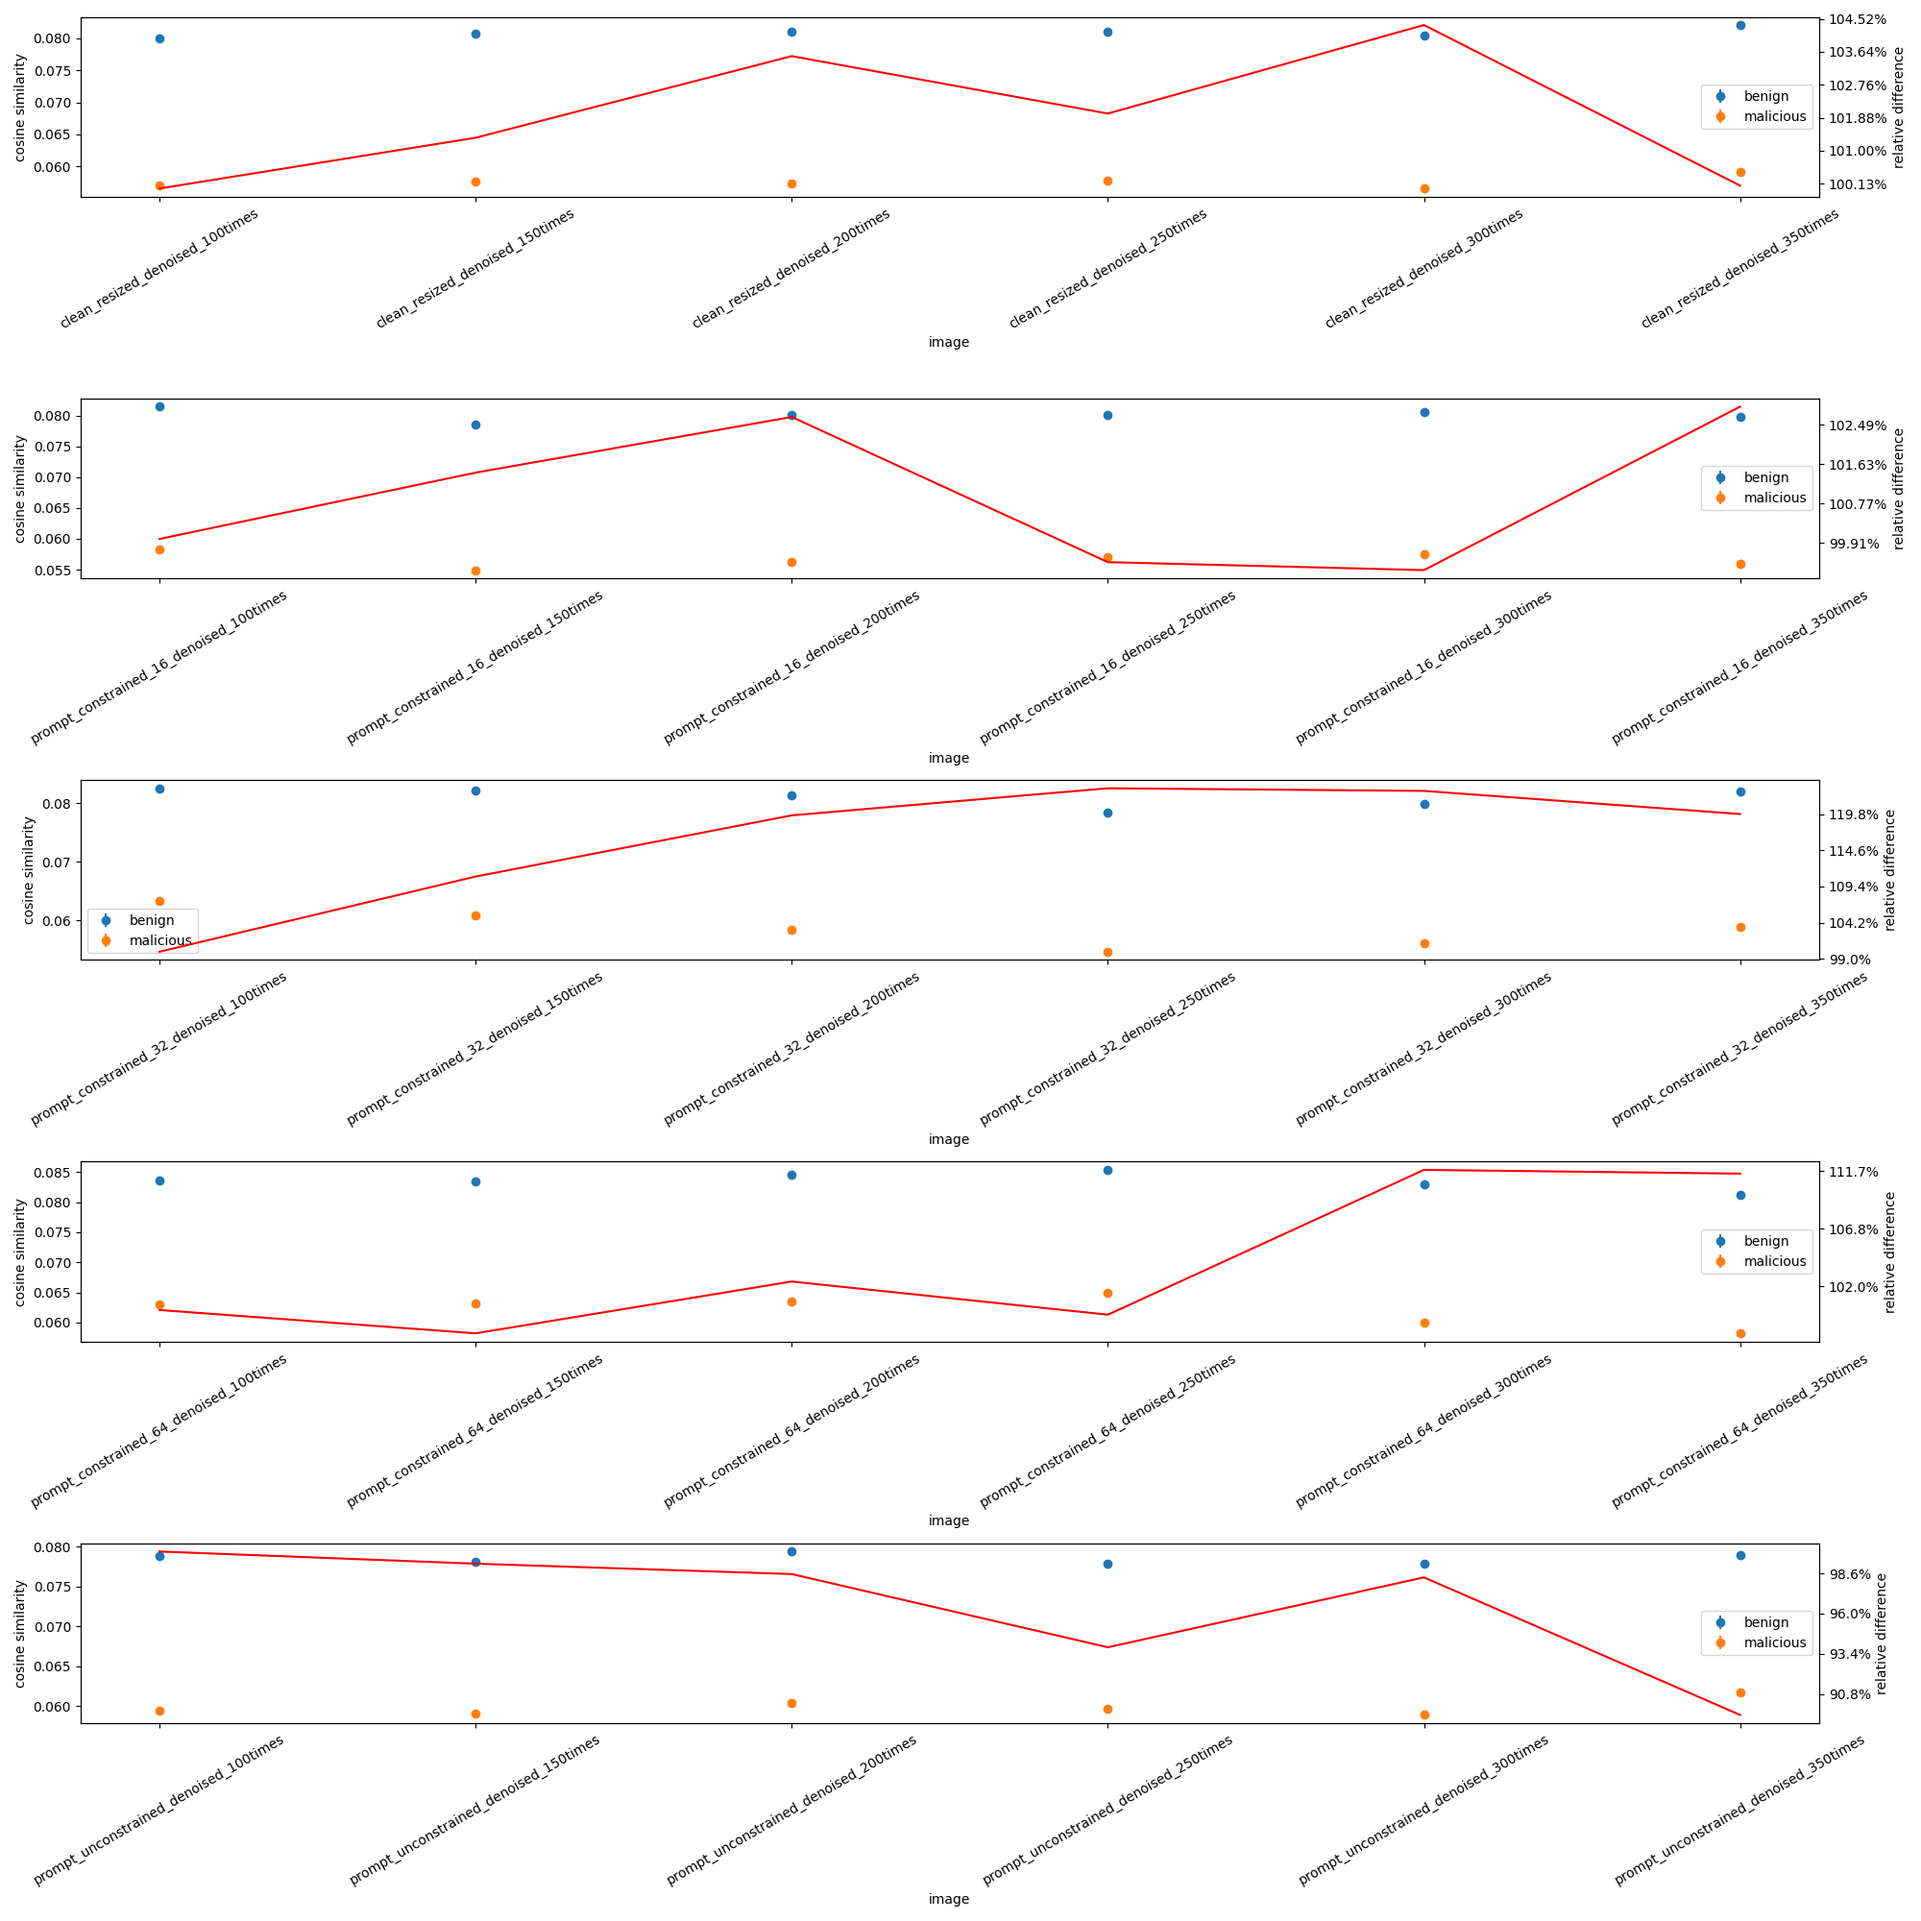
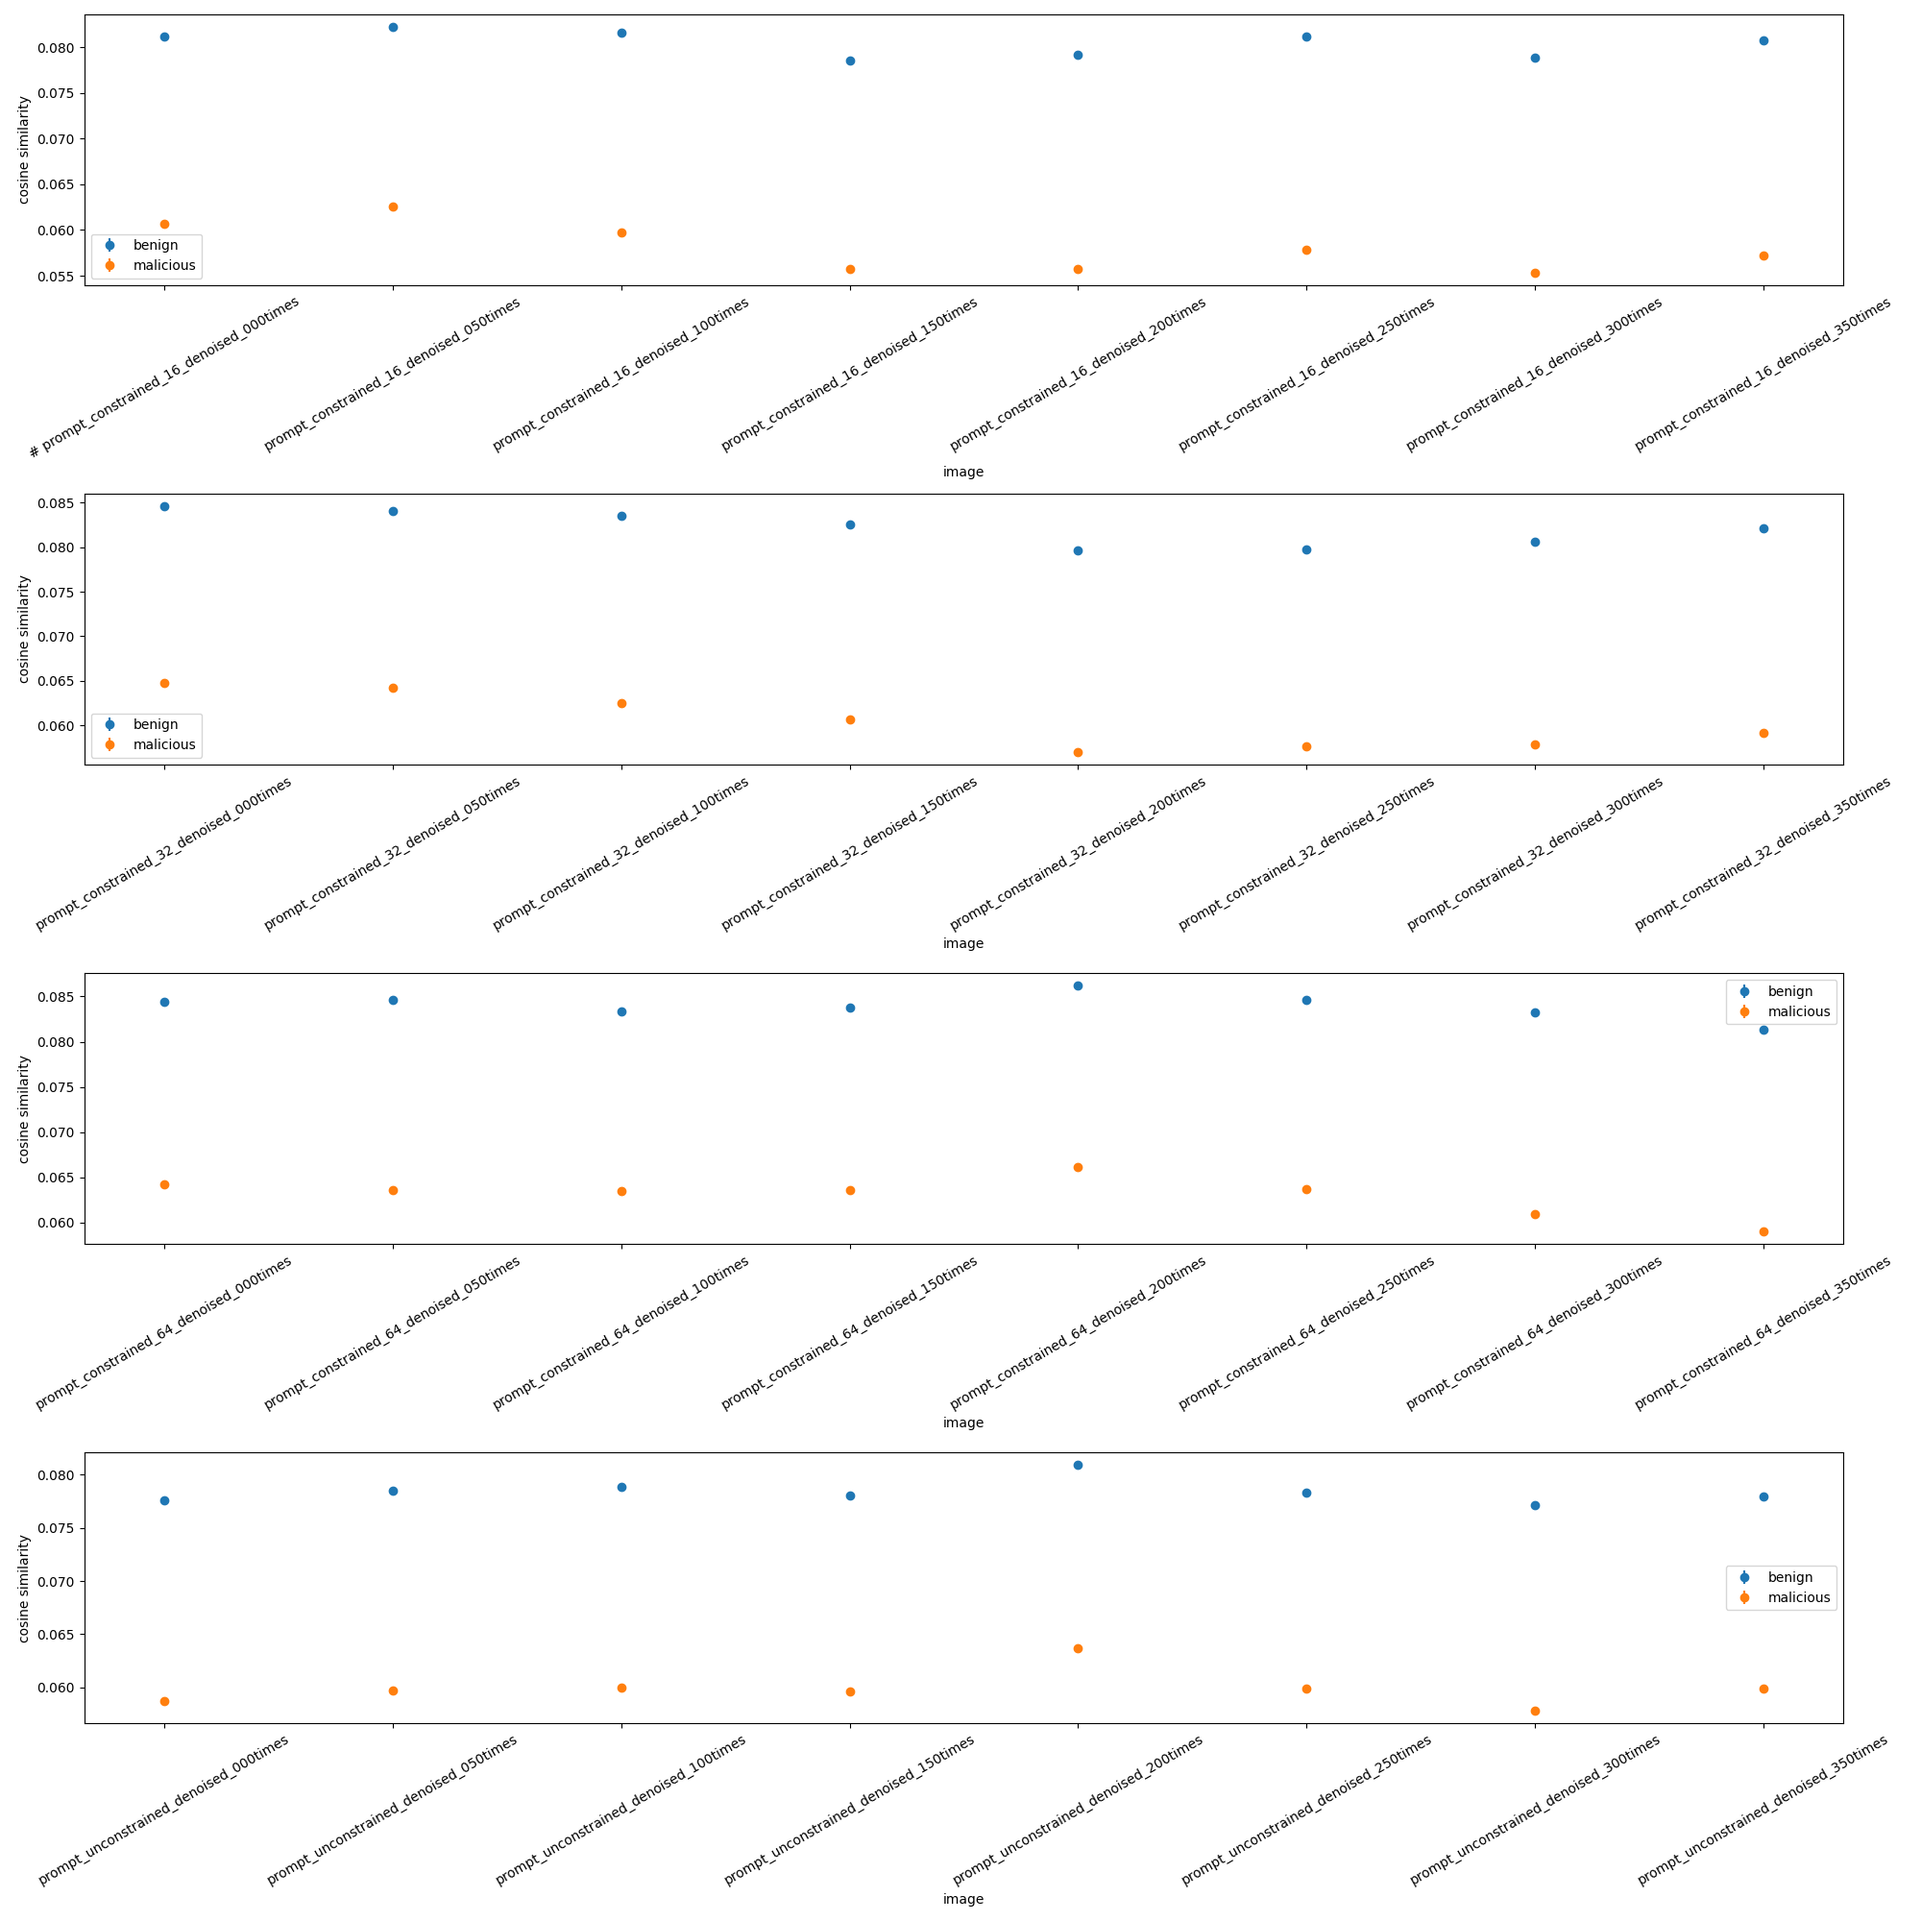
fixed col and dir format bugs

diff --git a/visualization.py b/visualization.py
@@ -24,17 +24,17 @@ def clustered_text_errorbar(df:pd.DataFrame, ax:matplotlib.axes.Axes):
     df = df.groupby("is_malicious").mean()
     # TODO: calculate error
     # plot errorbar
-    ax.errorbar(df.columns[1:], df.iloc[0,1:], yerr=0.0, fmt='o', label="benign")
-    ax.errorbar(df.columns[1:], df.iloc[1,1:], yerr=0.0, fmt='o', label="malicious")
+    ax.errorbar(df.columns[:], df.iloc[0,:], yerr=0.0, fmt='o', label="benign")
+    ax.errorbar(df.columns[:], df.iloc[1,:], yerr=0.0, fmt='o', label="malicious")
     ax.xaxis.set_tick_params(rotation=30)
     ax.set_xlabel("image")
     ax.set_ylabel("cosine similarity")
     ax.legend()
     # 加入另一坐标轴画出两者差值相对值
-    ax2 = ax.twinx()
-    ax2.plot(df.columns[1:], (df.iloc[0,1:]-df.iloc[1,1:]), 'r', label="relative difference")
-    ax2.yaxis.set_major_formatter(ticker.PercentFormatter(xmax=df.iat[0,1]-df.iat[1,1]))
-    ax2.set_ylabel("relative difference")
+    # ax2 = ax.twinx()
+    # ax2.plot(df.columns[:], (df.iloc[0,:]-df.iloc[1,:]), 'r', label="relative difference")
+    # ax2.yaxis.set_major_formatter(ticker.PercentFormatter(xmax=df.iat[0,1]-df.iat[1,1]))
+    # ax2.set_ylabel("relative difference")
     return
 
 f = "E:\\research\\MLLM\\src\\analysis\\similarity_matrix.csv"
@@ -42,19 +42,18 @@ df = pd.read_csv(f)
 # print(df.columns)
 
 # group images by different constrained value(16,32,64, unconstrained)
-c16 = df.iloc[:,[i for i in range(0,28,4)]+[-1]]
-c32 = df.iloc[:,[i for i in range(1,28,4)]+[-1]]
-c64 = df.iloc[:,[i for i in range(2,28,4)]+[-1]]
-cunc = df.iloc[:,[i for i in range(3,28,4)]+[-1]]
-clean = df.iloc[:,[i for i in range(28,35)]+[-1]]
+c16 = df.iloc[:,[i for i in range(0,8)]+[-1]]
+c32 = df.iloc[:,[i for i in range(8,16)]+[-1]]
+c64 = df.iloc[:,[i for i in range(16,24)]+[-1]]
+cunc = df.iloc[:,[i for i in range(24,32)]+[-1]]
+# clean = df.iloc[:,[i for i in range(28,35)]+[-1]]
+dfs = [c16,c32,c64,cunc]
 
 # plot in different subplots
-fig, axs = plt.subplots(5,1, figsize=(20,20))
-clustered_text_errorbar(clean, axs[0])
-clustered_text_errorbar(c16, axs[1])
-clustered_text_errorbar(c32, axs[2])
-clustered_text_errorbar(c64, axs[3])
-clustered_text_errorbar(cunc, axs[4])
+fig, axs = plt.subplots(len(dfs),1, figsize=(20,20))
+# clustered_text_errorbar(clean, axs[0])
+for i,df in enumerate(dfs):
+    clustered_text_errorbar(df, axs[i])
 plt.tight_layout()
 plt.savefig(f"./src/results/clustered_text_errorbar.png")
 # plt.show()

diff --git a/README.md b/README.md
@@ -84,14 +84,6 @@ TODO:
 </details>
 
 
-```
-发生异常: RuntimeError
-Parent directory /home/xuyue/QXYtemp/src/embedding does not exist.
-  File "/home/xuyue/QXYtemp/get_embed.py", line 72, in <module>
-    torch.save(img_embed_list, f"{source_dir}/embedding/{img_save_filename}.pt")
-RuntimeError: Parent directory /home/xuyue/QXYtemp/src/embedding does not exist.
-```
-
 ### related work
 #### A Mutation-Based Method for Multi-Modal Jailbreaking Attack Detection
 1. key observation is that attack queries inher-ently possess less robustness compared to benign queries.
